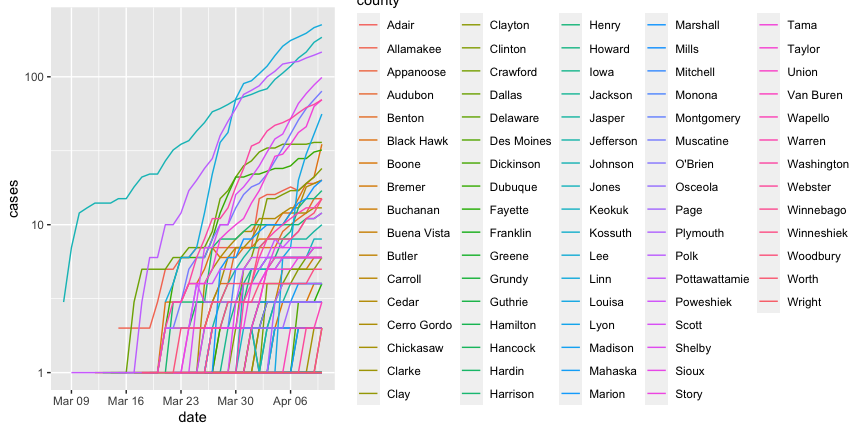
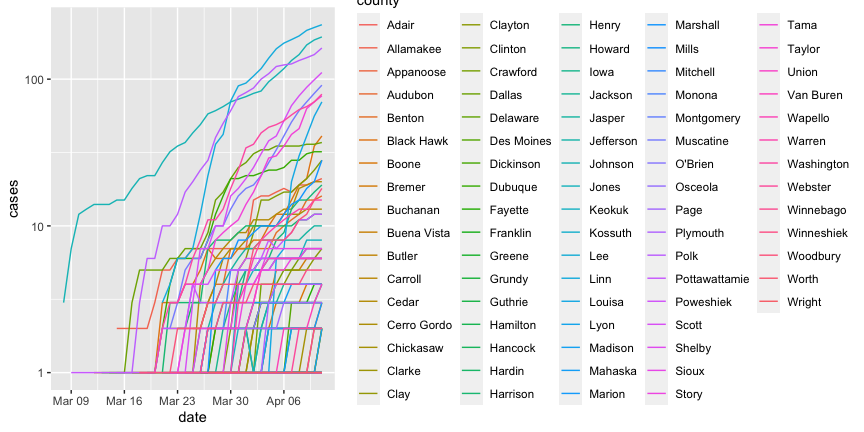
daily update

diff --git a/ijlyttle/01-Iowa.md b/ijlyttle/01-Iowa.md
@@ -83,20 +83,20 @@ iowa_counties <-
   print()
 ```
 
-    ## # A tibble: 1,221 x 5
+    ## # A tibble: 1,302 x 5
     ##    date       county     cases deaths aggregation
     ##    <date>     <chr>      <dbl>  <dbl> <chr>      
-    ##  1 2020-04-10 Linn         225     12 none       
-    ##  2 2020-04-10 Johnson      185      1 none       
-    ##  3 2020-04-10 Polk         147      5 none       
-    ##  4 2020-04-10 Scott         99      1 none       
-    ##  5 2020-04-10 Muscatine     80      1 none       
-    ##  6 2020-04-10 Tama          70      2 none       
-    ##  7 2020-04-10 Washington    70      3 none       
-    ##  8 2020-04-10 Louisa        56      0 none       
-    ##  9 2020-04-10 Dallas        36      0 none       
-    ## 10 2020-04-10 Black Hawk    35      0 none       
-    ## # … with 1,211 more rows
+    ##  1 2020-04-11 Linn         235     12 none       
+    ##  2 2020-04-11 Johnson      194      2 none       
+    ##  3 2020-04-11 Polk         163      5 none       
+    ##  4 2020-04-11 Scott        111      1 none       
+    ##  5 2020-04-11 Muscatine     91      1 none       
+    ##  6 2020-04-11 Washington    79      3 none       
+    ##  7 2020-04-11 Tama          77      2 none       
+    ##  8 2020-04-11 Louisa        70      0 none       
+    ##  9 2020-04-11 Black Hawk    41      0 none       
+    ## 10 2020-04-11 Dallas        37      0 none       
+    ## # … with 1,292 more rows
 
 Let’s have a quick look at all the counties.
 
@@ -124,16 +124,16 @@ iowa_counties_current <-
     ## # A tibble: 81 x 5
     ##    date       county     cases deaths aggregation
     ##    <date>     <chr>      <dbl>  <dbl> <chr>      
-    ##  1 2020-04-10 Linn         225     12 none       
-    ##  2 2020-04-10 Johnson      185      1 none       
-    ##  3 2020-04-10 Polk         147      5 none       
-    ##  4 2020-04-10 Scott         99      1 none       
-    ##  5 2020-04-10 Muscatine     80      1 none       
-    ##  6 2020-04-10 Tama          70      2 none       
-    ##  7 2020-04-10 Washington    70      3 none       
-    ##  8 2020-04-10 Louisa        56      0 none       
-    ##  9 2020-04-10 Dallas        36      0 none       
-    ## 10 2020-04-10 Black Hawk    35      0 none       
+    ##  1 2020-04-11 Linn         235     12 none       
+    ##  2 2020-04-11 Johnson      194      2 none       
+    ##  3 2020-04-11 Polk         163      5 none       
+    ##  4 2020-04-11 Scott        111      1 none       
+    ##  5 2020-04-11 Muscatine     91      1 none       
+    ##  6 2020-04-11 Washington    79      3 none       
+    ##  7 2020-04-11 Tama          77      2 none       
+    ##  8 2020-04-11 Louisa        70      0 none       
+    ##  9 2020-04-11 Black Hawk    41      0 none       
+    ## 10 2020-04-11 Dallas        37      0 none       
     ## # … with 71 more rows
 
 It could be useful to see the current distribution of number of cases
@@ -175,7 +175,7 @@ counties_large
 ```
 
     ## [1] "Linn"       "Johnson"    "Polk"       "Scott"      "Muscatine" 
-    ## [6] "Tama"       "Washington" "Louisa"
+    ## [6] "Washington" "Tama"       "Louisa"
 
 In addition to compiliing the data for the counties with large numbers
 of cases, we also create aggregeted datasets that show:
@@ -199,20 +199,20 @@ iowa_total <-
   print()
 ```
 
-    ## # A tibble: 34 x 5
+    ## # A tibble: 35 x 5
     ##    date       county cases deaths aggregation
     ##    <date>     <fct>  <dbl>  <dbl> <chr>      
-    ##  1 2020-04-10 <NA>    1388     31 total      
-    ##  2 2020-04-09 <NA>    1270     27 total      
-    ##  3 2020-04-08 <NA>    1145     27 total      
-    ##  4 2020-04-07 <NA>    1048     26 total      
-    ##  5 2020-04-06 <NA>     946     25 total      
-    ##  6 2020-04-05 <NA>     868     22 total      
-    ##  7 2020-04-04 <NA>     786     11 total      
-    ##  8 2020-04-03 <NA>     699     11 total      
-    ##  9 2020-04-02 <NA>     614     11 total      
-    ## 10 2020-04-01 <NA>     548      9 total      
-    ## # … with 24 more rows
+    ##  1 2020-04-11 <NA>    1510     34 total      
+    ##  2 2020-04-10 <NA>    1388     31 total      
+    ##  3 2020-04-09 <NA>    1270     27 total      
+    ##  4 2020-04-08 <NA>    1145     27 total      
+    ##  5 2020-04-07 <NA>    1048     26 total      
+    ##  6 2020-04-06 <NA>     946     25 total      
+    ##  7 2020-04-05 <NA>     868     22 total      
+    ##  8 2020-04-04 <NA>     786     11 total      
+    ##  9 2020-04-03 <NA>     699     11 total      
+    ## 10 2020-04-02 <NA>     614     11 total      
+    ## # … with 25 more rows
 
 ``` r
 iowa_remainder <- 
@@ -229,20 +229,20 @@ iowa_remainder <-
   print()
 ```
 
-    ## # A tibble: 33 x 5
+    ## # A tibble: 34 x 5
     ##    date       county cases deaths aggregation
     ##    <date>     <fct>  <dbl>  <dbl> <chr>      
-    ##  1 2020-04-10 <NA>     456      6 remainder  
-    ##  2 2020-04-09 <NA>     417      6 remainder  
-    ##  3 2020-04-08 <NA>     391      6 remainder  
-    ##  4 2020-04-07 <NA>     365      6 remainder  
-    ##  5 2020-04-06 <NA>     340      5 remainder  
-    ##  6 2020-04-05 <NA>     320      5 remainder  
-    ##  7 2020-04-04 <NA>     300      3 remainder  
-    ##  8 2020-04-03 <NA>     279      3 remainder  
-    ##  9 2020-04-02 <NA>     245      3 remainder  
-    ## 10 2020-04-01 <NA>     210      3 remainder  
-    ## # … with 23 more rows
+    ##  1 2020-04-11 <NA>     490      8 remainder  
+    ##  2 2020-04-10 <NA>     456      6 remainder  
+    ##  3 2020-04-09 <NA>     417      6 remainder  
+    ##  4 2020-04-08 <NA>     391      6 remainder  
+    ##  5 2020-04-07 <NA>     365      6 remainder  
+    ##  6 2020-04-06 <NA>     340      5 remainder  
+    ##  7 2020-04-05 <NA>     320      5 remainder  
+    ##  8 2020-04-04 <NA>     300      3 remainder  
+    ##  9 2020-04-03 <NA>     279      3 remainder  
+    ## 10 2020-04-02 <NA>     245      3 remainder  
+    ## # … with 24 more rows
 
 ``` r
 iowa_counties_large <- 
@@ -539,10 +539,10 @@ iowa_counts <-
     ## # A tibble: 4 x 5
     ##   population_group counties population cases deaths
     ##   <fct>               <int>      <dbl> <dbl>  <dbl>
-    ## 1 large                   2     716867   372     17
-    ## 2 mid-large               7     846299   409      3
-    ## 3 mid-small              24     812518   328      6
-    ## 4 small                  66     779386   279      5
+    ## 1 large                   2     716867   398     17
+    ## 2 mid-large               7     846299   440      4
+    ## 3 mid-small              24     812518   366      6
+    ## 4 small                  66     779386   306      7
 
 ``` r
 vars_count <- c("counties", "population", "cases", "deaths")
@@ -565,20 +565,20 @@ iowa_counts_tall <-
     ##    <fct>            <fct>       <dbl>
     ##  1 large            counties        2
     ##  2 large            population 716867
-    ##  3 large            cases         372
+    ##  3 large            cases         398
     ##  4 large            deaths         17
     ##  5 mid-large        counties        7
     ##  6 mid-large        population 846299
-    ##  7 mid-large        cases         409
-    ##  8 mid-large        deaths          3
+    ##  7 mid-large        cases         440
+    ##  8 mid-large        deaths          4
     ##  9 mid-small        counties       24
     ## 10 mid-small        population 812518
-    ## 11 mid-small        cases         328
+    ## 11 mid-small        cases         366
     ## 12 mid-small        deaths          6
     ## 13 small            counties       66
     ## 14 small            population 779386
-    ## 15 small            cases         279
-    ## 16 small            deaths          5
+    ## 15 small            cases         306
+    ## 16 small            deaths          7
 
 ``` r
 plot_iowa_proportions <-

diff --git a/ijlyttle/00-Data.md b/ijlyttle/00-Data.md
@@ -1,7 +1,7 @@
 Data Download
 ================
 Ian Lyttle
-2020-04-11
+2020-04-12
 
 The purpose of this document is to download the datasets used.
 
